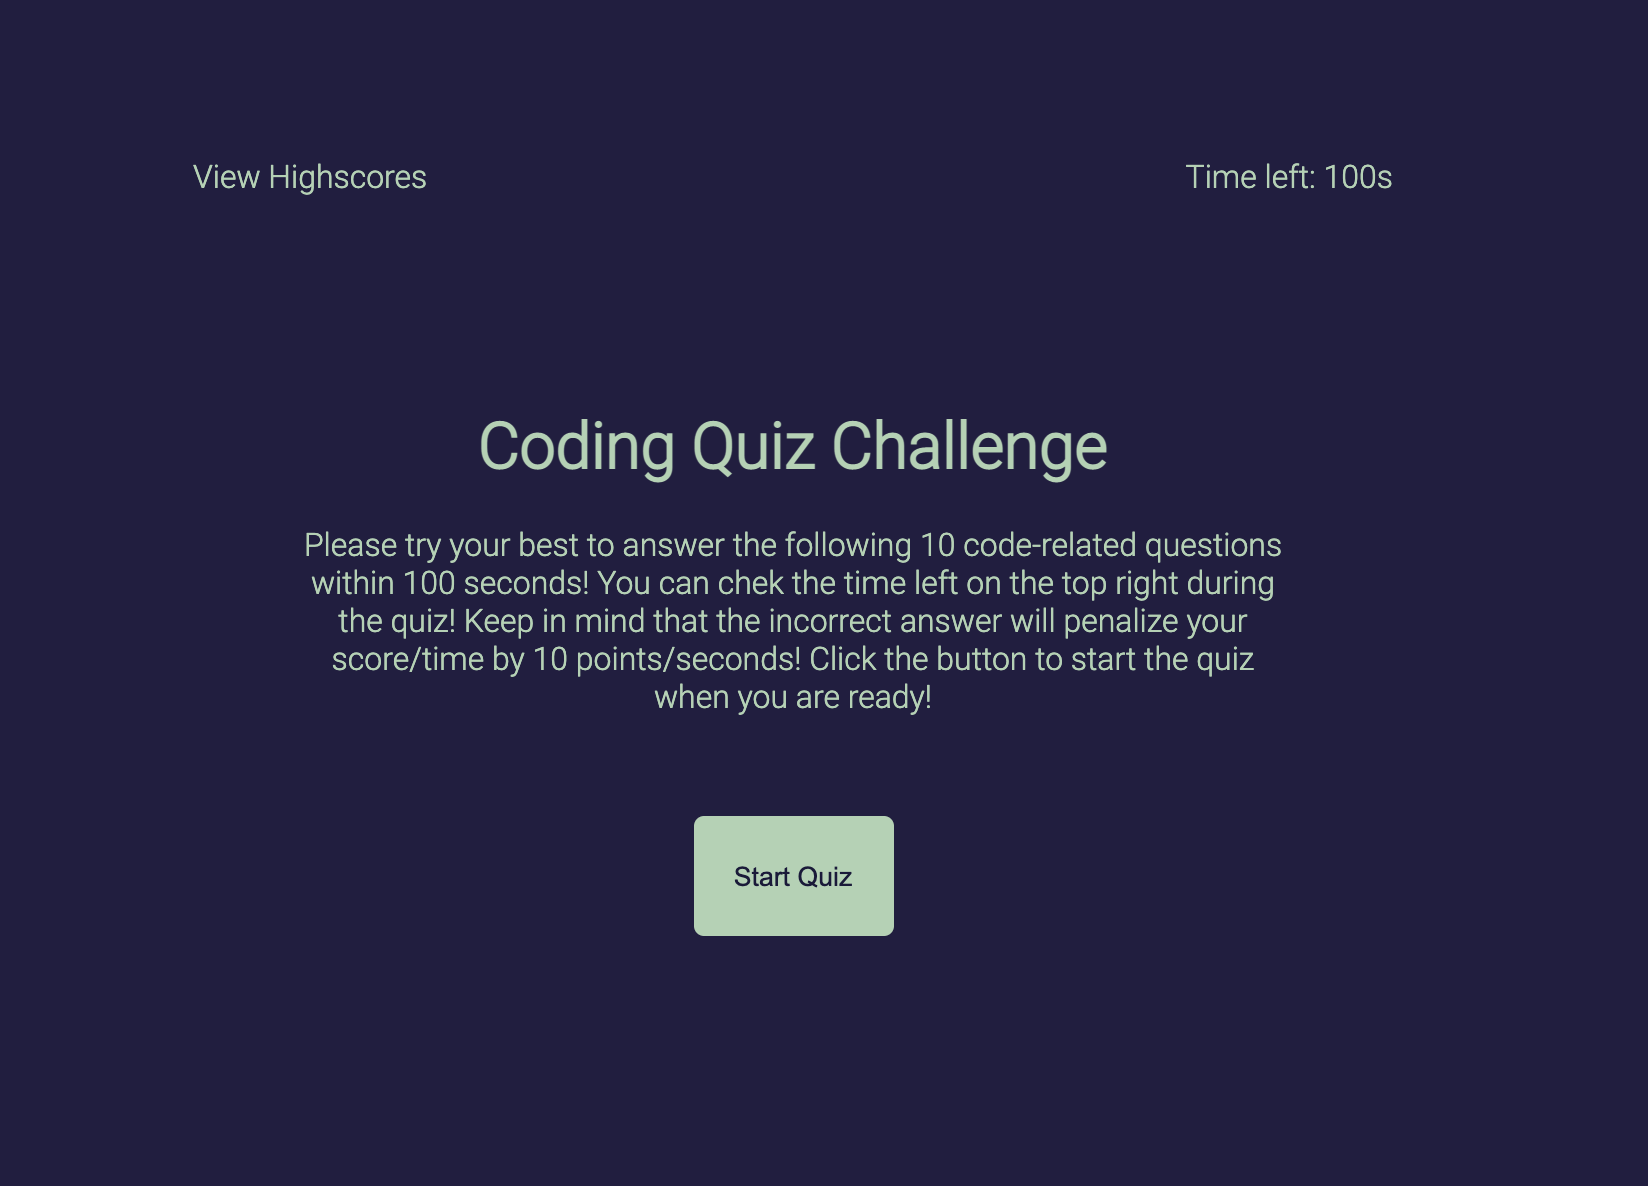
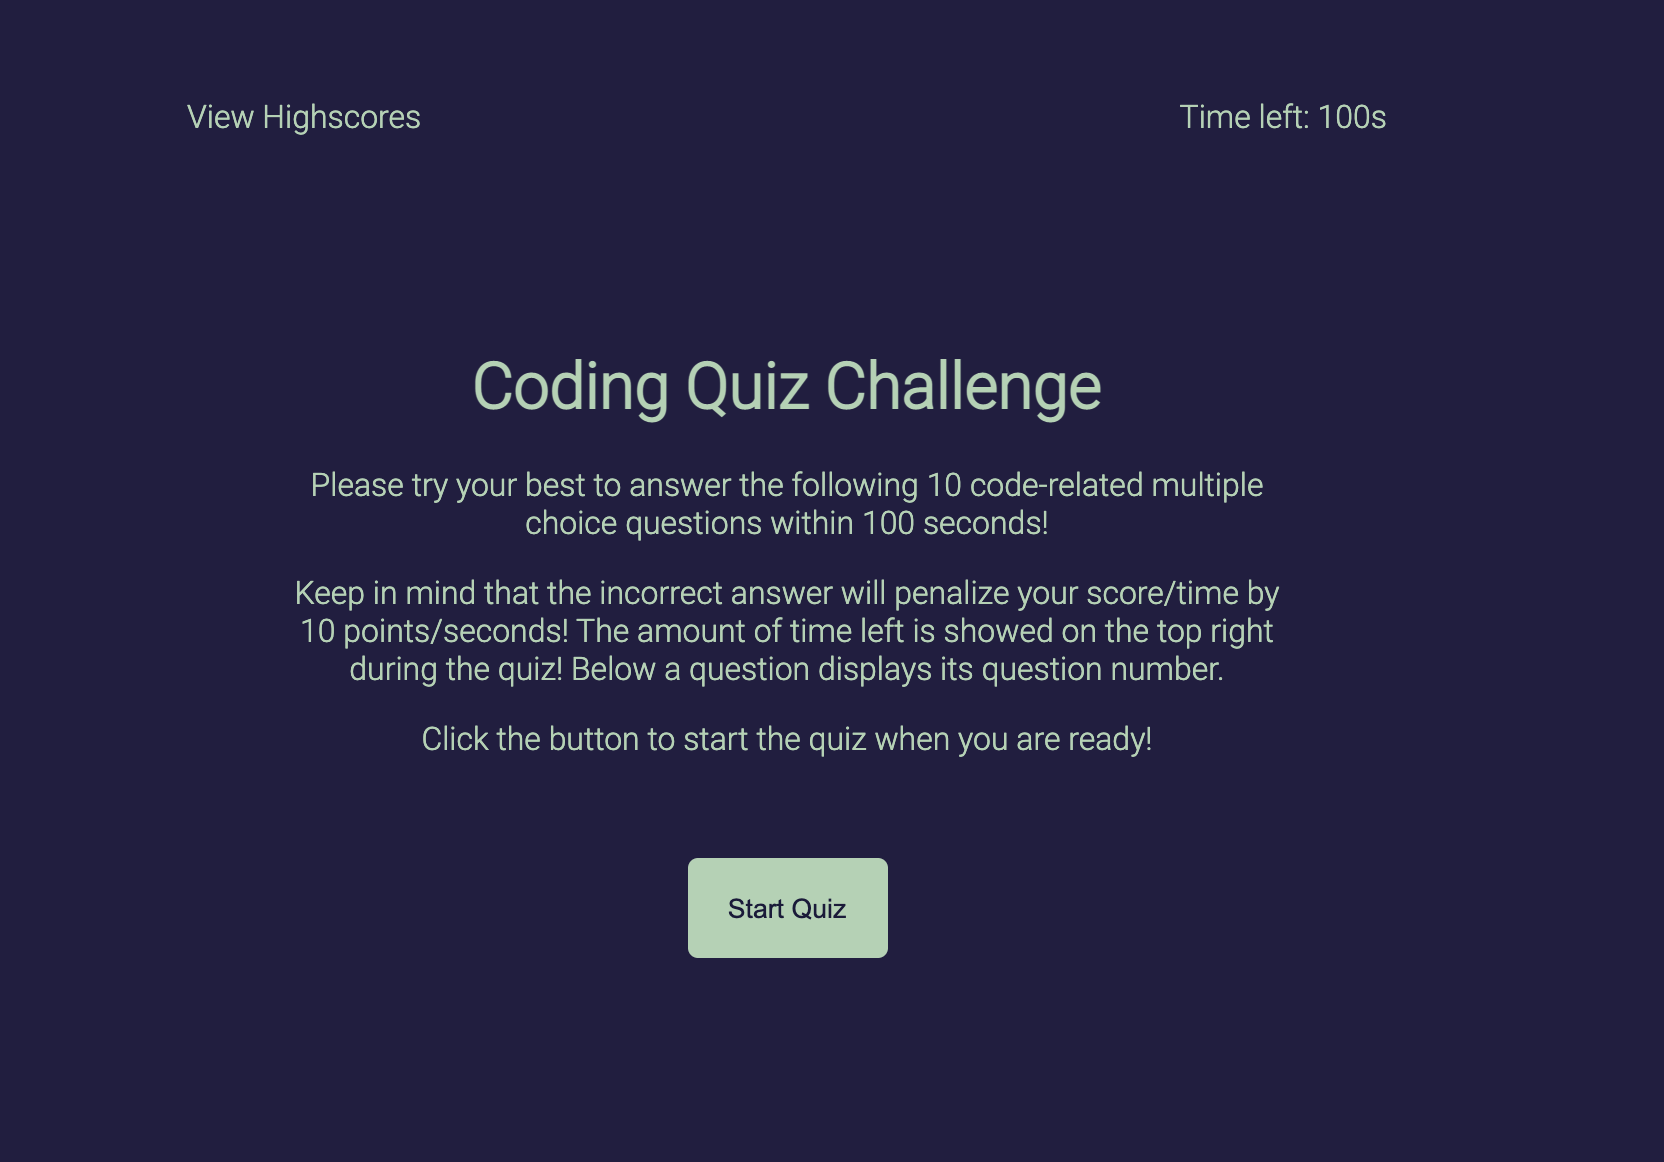
correct typo   update the gif demo

diff --git a/assets/js/script.js b/assets/js/script.js
@@ -1,6 +1,6 @@
+var topBar = document.querySelector(".top-bar");
 var firstBlock = document.querySelector("#first-block");
 var secondBlock = document.querySelector("#second-block");
-var topBar = document.querySelector(".top-bar");
 var timeLeftEl;
 var timeTotal;
 var timePenalty = 10;
@@ -35,7 +35,10 @@ function loadHomepage() {
     // append title and rules to the first block in the main content
     title.textContent = "Coding Quiz Challenge";
     title.setAttribute("class", "text-center");
-    rules.textContent = "Please try your best to answer the following " + questions.length + " code-related questions within " + timeTotal + " seconds! You can check the time left on the top right during the quiz! Keep in mind that the incorrect answer will penalize your score/time by " + timePenalty + " points/seconds! Click the button to start the quiz when you are ready!";
+    rules.innerHTML = 
+        '<p>Please try your best to answer the following ' + questions.length + ' code-related multiple-choice questions within ' + timeTotal + ' seconds!</p>' + 
+        '<p>Keep in mind that the incorrect answer will penalize your score/time by ' + timePenalty + ' points/seconds! The amount of time left is showed on the top right during the quiz. Below a question displays its question number.<p>' +
+        '<p>Click the button to start the quiz when you are ready!</p>';
     rules.setAttribute("class", "text-center");
     firstBlock.appendChild(title);
     firstBlock.appendChild(rules);
@@ -155,10 +158,10 @@ function loadResultPage() {
 
     if (timeLeft === 0) {
         result.textContent = "Time's up!";
-        score.textContent = "Sorry that you fail to answer all the quetions in the given time! Please practise more and come back to try again!";
+        score.textContent = "Sorry that you fail the quiz! Please practise more and try again later!";
     }
     else {
-        result.textContent = "Congratulations! You have answered all the questions!";
+        result.textContent = "Congratulations! Your final score is " + timeLeft + "!";
         score.textContent = "Please enter your initials to submit your score!";
     }
 }

diff --git a/assets/css/style.css b/assets/css/style.css
@@ -120,6 +120,7 @@ li:nth-of-type(odd) {
     color: var(--dark-color);
 }
 
+/* resize element to fit mobile screen */
 @media screen and (max-width: 768px) {
     body {
         padding: 0px 5px;

diff --git a/README.md b/README.md
@@ -1,5 +1,5 @@
 # code-quiz
-This project provides a series of code-related mulpi-choice questions. Users who answers questions fast and correctly would get batter score and rank higher.
+This project provides a series of code-related multiple-choice questions. Users who answer questions fast and correctly would get batter score and higher rank.
 
 ## Getting Started
 ```console
@@ -11,23 +11,23 @@ git clone https://github.com/qtian13/code-quiz.git
 * [CSS](https://developer.mozilla.org/en-US/docs/Web/CSS)
 
 ## Features of the Code Quiz
-1. The homepage displays the title and explains the rules of the quiz. Quiz starts when `Start Quiz` is clicked and quiz timer is triggered at the same time. On the top left is a link to high score page. User can click to check the current score record. On the top right shows the left time for the quiz
+1. The homepage displays the title and explains the rules of the quiz. Quiz starts when `Start Quiz` is clicked. Once clicked, quiz timer starts at the same time. On the top left is a link to high score page. User can click to check the current score record. On the top right shows the time left for the quiz.
 ![homepage](assets/images/homepage.png)
 2. During the quiz:
-    * a series of multi-option questions are rendered one by one. 
-    * The option background color would change while the mouse hover over it which helps user choose the one they want
-    * User can check the time left on the top right corner which is updated every second.
-    * Users can also check the index of current question at the bottom of the page. 
+    * A series of multiple-choice questions are rendered one by one. 
+    * The background color of the choice would change while the mouse hover over it which helps user choose the one they want.
+    * User can check the time left on the top right corner.
+    * Users can also check the serial number of current question at the bottom of the page. 
     ![duringquiz](assets/images/duringquiz.png)
-    * When an option is clicked, the next question renders right away
+    * When a choice is clicked, the next question renders right away
     * The result of the previous question is displayed below the question card and disappear after 1.5 second or options of current questions is clicked which comes early.
     ![displayresult](assets/images/displayresult.png)
 3. The quiz result page is loaded when time is up or when all the questions are done. Users can enter their initials and click `submit` to record their score. The initials and score would be added to quiz results stored in `Local Storage`. The high score page would load after the form is submitted.
 ![quizends](assets/images/quizends.png)
-4. When the high score page is loaded, the user can view the quiz results history ordered by the score from high to low. There are also two buttons on this page. One to go back to the homepage and the other one is to clear the score history displayed and one stored in `Local Storage`
+4. When the high score page is loaded, user can view the quiz results ranked in descending order. There are two buttons on this page: One to go back to the homepage and the other one is to clear the scores from UI and in `Local Storage`
 ![highscore](assets/images/highscore.png)
-5. The page display is screen responsive
-5. The data of questions are stored in JSON file
+5. The page layout is screen size responsive.
+5. Question data are stored in JSON file.
 ## Page URL
 https://qtian13.github.io/code-quiz/
 ## Page Demo
@@ -41,7 +41,6 @@ Qiushuang Tian
 - [Link to Portfolio Site](https://qtian13.github.io/)
 - [Link to Github](https://github.com/qtian13)
 - [Link to LinkedIn](https://www.linkedin.com/in/qiushuang-tian-a9754248/)
-
 ## Acknowledgments
 - [Berkeley Coding Boot Camp](https://bootcamp.berkeley.edu/coding/) provided start code
 
